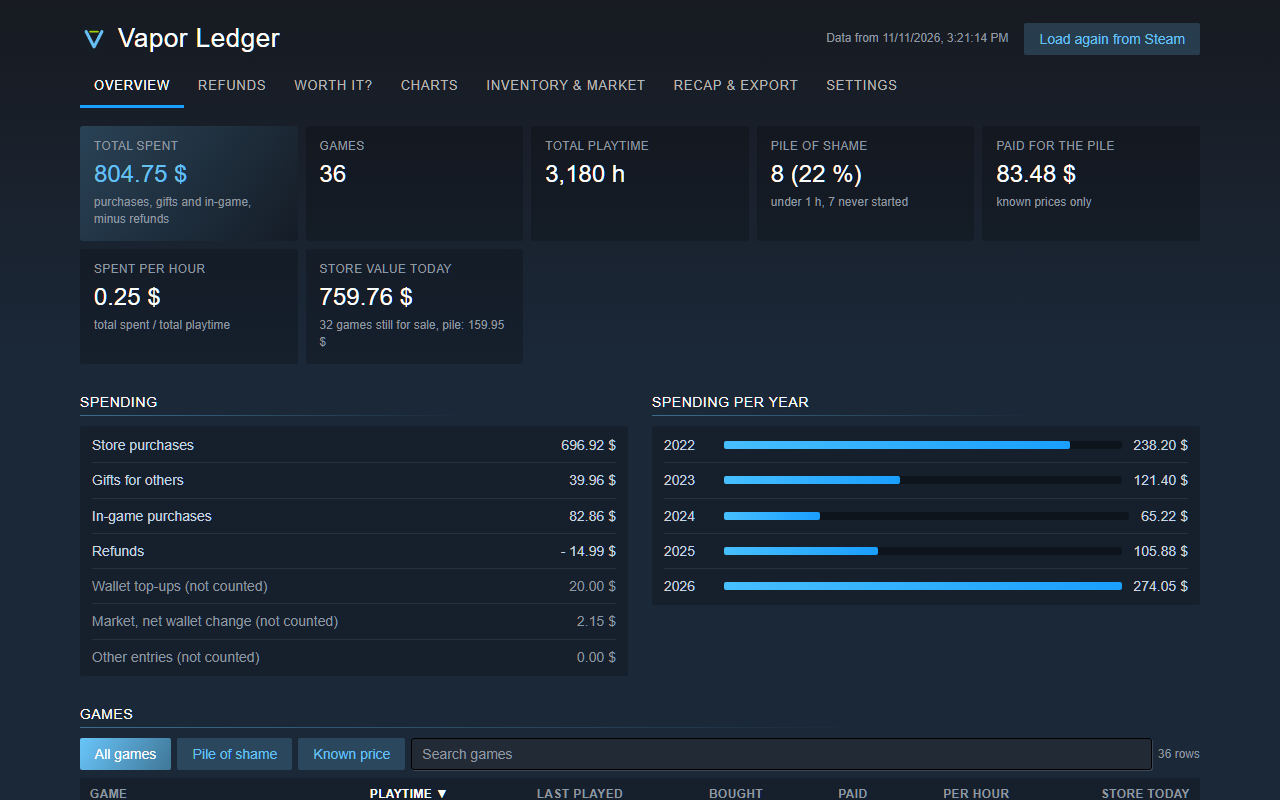
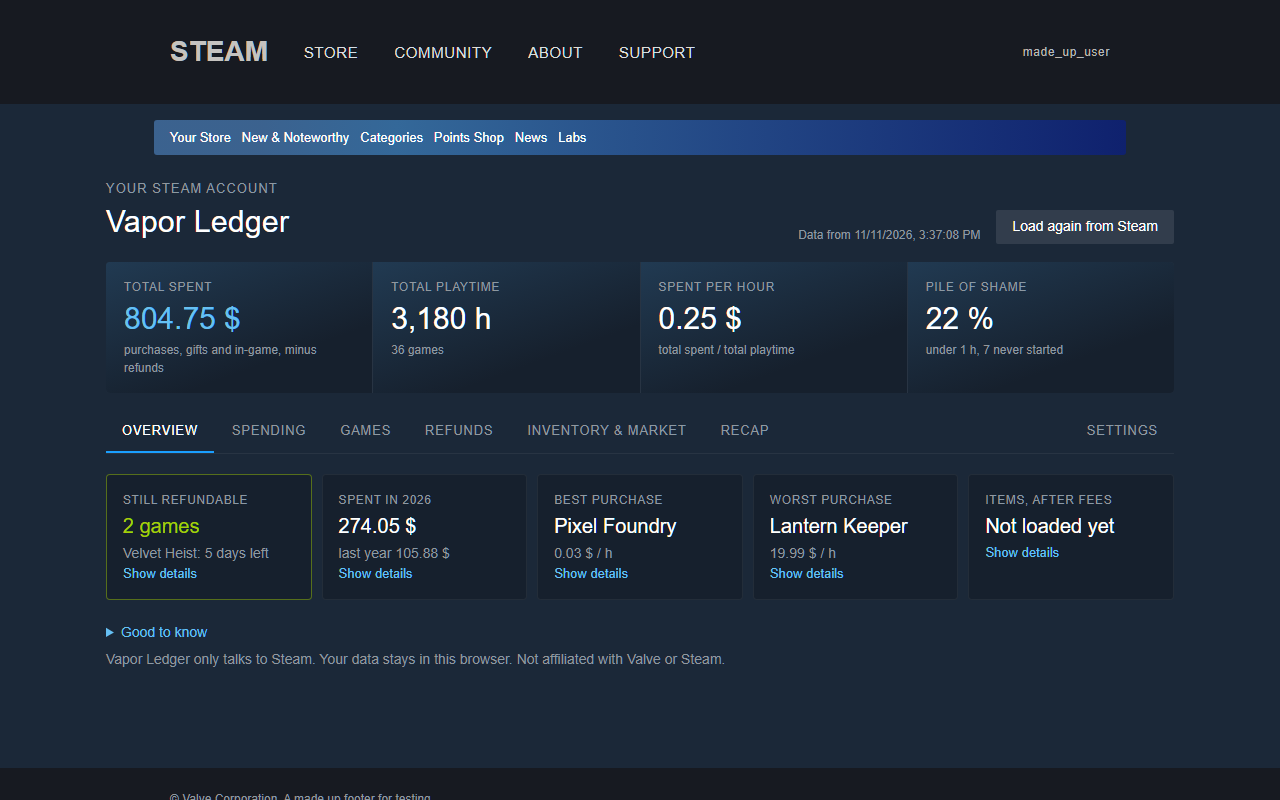
Describe 0.4.0
- Project notes: outside price services only through official APIs, off by
  default, only app ids, keys never in the repo, SteamDB only linked;
  all requests through VL.request; rules for changes to Steam's pages;
  new code layout.
- README: the page inside the store, the new tabs, optional price
  sources, how the market loads, new files.
- CHANGELOG: 0.4.0.
- PRIVACY.md: IsThereAnyDeal (what is sent, only when switched on),
  SteamDB links, the account menu entry, the new host permission.
- store/: listing and review answers for the page inside the store, the
  background script and the IsThereAnyDeal host; new screenshots of the
  page inside a made up copy of Steam's account page.

diff --git a/README.md b/README.md
@@ -6,47 +6,61 @@ your pile of shame is, what your inventory is worth and whether the market
 made you money.
 
 No ads, no tracking, no accounts, no servers. Everything happens in your
-browser and the only site the extension talks to is Steam itself.
+browser. The extension talks to Steam, and to IsThereAnyDeal only if you
+switch that on.
 
 > Vapor Ledger is a hobby project and not affiliated with Valve or Steam.
 
-## Features (v0.3)
+## Features (v0.4)
 
-Vapor Ledger opens as its own page in the browser. Click the toolbar
-button or the "Vapor Ledger" link in Steam's header.
+Vapor Ledger is a page inside the Steam store, with Steam's own header,
+navigation and footer: [store.steampowered.com/account/#vapor-ledger](https://store.steampowered.com/account/#vapor-ledger).
+Open it from your account menu (under your name at the top of Steam) or
+with the toolbar button.
 
-- **Overview**: total spent (store purchases, gifts and in-game purchases
-  minus refunds), spending per year, playtime, pile of shame, cost per
-  hour, what your library would cost in the store today, sortable and
-  searchable games table
-- **Refund watch**: games bought in the last 14 days with less than
-  2 hours played, with the days and minutes left and a link to Steam's
-  help page for that purchase. Steam decides every request, Vapor Ledger
-  never asks for a refund by itself
-- **Worth it?**: best and worst purchases by cost per hour, and what
-  discounts saved compared with today's regular price
-- **Charts**: spending per month and year, spending added up over time,
-  playtime ranges, price against playtime. Plain SVG in Steam's colors,
-  readable with the keyboard and as a table
+At the top are the key numbers: total spent, playtime, spent per hour and
+pile of shame. Below are tabs, each with the details behind "Show more":
+
+- **Overview**: what needs attention, like games you can still refund,
+  this year's spending, your best and worst purchase
+- **Spending**: store purchases, gifts, in-game purchases and refunds,
+  spending per year and month, added up over time, other currencies shown
+  apart, what discounts saved compared with today's regular price
+- **Games**: best and worst purchases by cost per hour, sortable and
+  searchable games table, playtime charts
+- **Refundable**: games bought in the last 14 days with less than 2 hours
+  played, with the days and minutes left and a link to Steam's help page.
+  Steam decides every request, Vapor Ledger never asks for a refund itself
 - **Inventory and market**: inventory value for Steam items,
   Counter-Strike 2, Team Fortress 2, Dota 2, Rust and PUBG, what you would
   get after fees, market history with profit and loss, and what Steam
   really cost you
-- **Recap image** for the whole account or one year. No Steam ID or name,
-  game names only if you want them
-- **Export** of purchases and games as CSV and of everything as JSON
-- English and German, following the browser language
-- Purchase history in every Steam store language. Different currencies are
-  shown apart and never added up
-- Local cache, so the page opens instantly next time
-- In Steam's own look: same colors, fonts and buttons as Steam
+- **Recap**: an image for the whole account or one year (no Steam ID or
+  name, game names only if you want them), export as CSV and JSON
+- **Settings**: switch each part off, optional price sources
 
+Charts are plain SVG, readable with the keyboard and as a table. Purchase
+history works in every Steam store language, different currencies are
+never added up. Interface in English and German.
+
+### Optional price sources
+
+Off until you switch them on in the settings:
+
+- **IsThereAnyDeal**: the lowest price each game ever had, through
+  IsThereAnyDeal's official API. You need your own free API key from
+  IsThereAnyDeal; enter it in the settings, it stays in your browser. Only
+  Steam app ids and your store country are sent.
+- **SteamDB**: only links next to each game. SteamDB has no public API, so
+  nothing is loaded from it.
 ### Better Steam pages
 
 Vapor Ledger also makes some of Steam's own pages easier to use. It only
 changes how they look and work in your browser, saving still goes through
 Steam's own buttons and forms. Every part can be switched off on the
-"Settings" tab, and if Steam changes a page, the original page stays.
+"Settings" tab, and if Steam changes a page, the original page stays. The
+additions use their own `vl-` classes and a shadow root, so they work next to
+Augmented Steam, the SteamDB extension, Steam Inventory Helper and CSFloat.
 
 - **Profile edit**: Steam's Save bar stays in view while you scroll and
   shows when there are unsaved changes, Ctrl+S saves with Steam's own
@@ -81,25 +95,28 @@ To try it:
 2. Click "Load Temporary Add-on" and select `manifest.json`
 
 Log in on [store.steampowered.com](https://store.steampowered.com) in the
-same browser, then click the Vapor Ledger button in the toolbar. For
-inventory and market you also need to be logged in on
+same browser, then choose "Vapor Ledger" in your account menu or click the
+toolbar button. For inventory and market you also need to be logged in on
 [steamcommunity.com](https://steamcommunity.com).
 
 ## Where the data comes from
 
 | Data | Source |
 |---|---|
-| Who is logged in, the Web API token | the HTML of store.steampowered.com/account/history, the same values Steam puts on every store page for logged in users |
+| Who is logged in, the Web API token | the store page itself and store.steampowered.com/account/history, the same values Steam puts on every store page for logged in users |
 | Games and playtime | `IPlayerService/GetOwnedGames` on api.steampowered.com, with that token |
 | Purchase history | store.steampowered.com/account/history, the same page you see in your account |
 | Store prices | `IStoreBrowseService/GetItems` on api.steampowered.com, the API the store uses for its game tiles. Only app ids and your store country are sent, no token |
 | Inventory | steamcommunity.com/inventory, the same data your inventory page loads |
-| Market prices | steamcommunity.com/market/priceoverview, the price box on every market page |
-| Market history | steamcommunity.com/market/myhistory, the "My market history" tab |
+| Market prices | steamcommunity.com/market/search/render for all community items of one game at once, steamcommunity.com/market/priceoverview for other items |
+| Market history | steamcommunity.com/market/myhistory, the "My market history" tab, 500 rows per request |
+| Lowest prices (optional) | api.isthereanydeal.com, only if switched on, with your own key |
 
 Steam limits how fast these pages may be asked. Vapor Ledger loads one thing
-at a time with a pause in between (market prices: one every 3.5 seconds), keeps
-prices for a day and stops as soon as Steam says "too many requests".
+at a time with a pause in between (market prices: one request every 3.5
+seconds), asks for all cards, backgrounds and emoticons of a game in one
+request, keeps prices for a day and stops as soon as Steam says "too many
+requests". Saved data shows at once, the rest fills in while it loads.
 
 The token and your data are never sent anywhere except back to Steam. The
 loaded data is kept in the extension's local storage on your computer. You can
@@ -117,8 +134,11 @@ and without any libraries. Details in the [privacy policy](PRIVACY.md).
   shows the playtime of the games bought that year, up to today.
 - Entries the parser doesn't recognize are listed under "Good to know",
   so they can be reported.
-- The first price check of a big inventory takes a while (about 17 items per
-  minute). You can stop it and continue later, prices already loaded are kept.
+- The first price check of a big inventory takes a while: Steam community
+  items go fast (one request per game), other items about 17 per minute. You
+  can stop it and continue later, prices already loaded are kept.
+- The IsThereAnyDeal low is in the currency IsThereAnyDeal uses for your
+  country, it is shown as it is and not compared with what you paid.
 - Market profit or loss is sold minus bought. Items you bought and still own
   count as a cost until you sell them.
 
@@ -126,20 +146,25 @@ and without any libraries. Details in the [privacy policy](PRIVACY.md).
 
 The extension has no build step. Edit the files and reload the extension.
 
-- `src/lib/` data loading, parsing and statistics
-- `src/app/` the extension page: tabs, tables, charts, recap image
-- `src/content/link.js` the "Vapor Ledger" link in Steam's header, the only
-  script that runs on every Steam page
+- `src/lib/` data loading, parsing, statistics, settings and
+  `request.js`, the one place that talks to servers
+- `src/ledger/` the Vapor Ledger page inside the store: tabs, tables, charts,
+  recap image, styles (in a shadow root)
+- `src/content/link.js` the account menu entry, the only script that runs on
+  every Steam page
 - `src/content/profile-edit.js`, `history-tools.js`, `licenses-tools.js` the
   improvements of Steam's own pages, only loaded on those pages, with
   `common.js` and `steam-tools.css`
-- `src/lib/settings.js` which improvements are switched on
-- `src/background.js` opens the page from the toolbar button and the link
+- `src/background.js` the toolbar button, and passes requests of the page
+  to api.steampowered.com, steamcommunity.com and IsThereAnyDeal
 - `_locales/` English and German texts
 - `test/*.test.js` tests for parsers, statistics, pages, manifest and package
-- `test/fixtures/` made up copies of Steam's purchase history in several
-  languages and currencies
-- `test/harness.html` the extension page with made up data instead of Steam.
+- `test/fixtures/` made up copies of Steam's pages (purchase history in
+  several languages and currencies, licenses, profile edit)
+- `test/market-speed.test.js` counts requests and waiting time of the market
+  tab for a typical made up inventory
+- `test/harness.html` a copy of Steam's account page with the Vapor Ledger
+  page and made up data instead of Steam.
   Open it through any local web server from the repository root (for example
   `npx serve .`), add `?lang=de` for German
 
@@ -153,9 +178,8 @@ npm run lint
 npm run pack   # builds dist/vapor-ledger-<version>.zip for the stores
 ```
 
-The ZIP contains only the manifest, the license, `_locales/`, `src/` and the PNG
-icons. The
-same file is uploaded to the Chrome Web Store and to Firefox Add-ons. Store
+The ZIP contains only the manifest, the license, `_locales/`, `src/` and the
+PNG icons. The same file is uploaded to the Chrome Web Store and to Firefox Add-ons. Store
 texts, review answers and screenshots are in `store/`.
 
 ## License

diff --git a/PRIVACY.md b/PRIVACY.md
@@ -1,6 +1,6 @@
 # Privacy Policy for Vapor Ledger
 
-Last updated: November 11, 2026
+Last updated: November 11, 2026 (version 0.4.0)
 
 Vapor Ledger is a free browser extension that shows statistics about your own
 Steam account. It is made by an individual developer (ItsReepze) and is not
@@ -9,7 +9,8 @@ affiliated with Valve or Steam.
 ## Short version
 
 - Vapor Ledger does not collect, sell or share any data.
-- There is no Vapor Ledger server. The extension only talks to Steam.
+- There is no Vapor Ledger server. The extension talks to Steam, and to
+  IsThereAnyDeal only if you switch that on (see below).
 - Everything it loads is stored in your browser and nowhere else.
 - No analytics, no tracking, no ads, no third party services.
 
@@ -54,6 +55,19 @@ image, you decide where.
 The export buttons save your purchase history and games as CSV or JSON files
 on your computer. They contain no Steam ID and no token.
 
+## Optional price sources
+
+Both are off until you switch them on in the settings.
+
+- IsThereAnyDeal (api.isthereanydeal.com): with your own API key, Vapor
+  Ledger asks for the lowest price each of your games ever had. Sent are
+  only the Steam app ids of your games, your store country and your key.
+  Never your Steam ID, your Steam token, your name or anything from your
+  purchase history. IsThereAnyDeal's own privacy policy applies to these
+  requests. The key is kept in your browser's extension storage.
+- SteamDB: only links. Nothing is loaded from SteamDB and nothing is sent
+  to it unless you click a link.
+
 ## Refunds
 
 The refund page only shows which purchases may still be refundable and links
@@ -64,7 +78,7 @@ to Steam's own help page. Vapor Ledger never sends a refund request.
 - It never buys, sells, lists, trades or refunds anything on your behalf.
 - It never changes your Steam account or settings.
 - It never reads pages other than Steam's. On Steam's pages it adds the
-  "Vapor Ledger" link to the header and, on the profile edit, purchase
+  "Vapor Ledger" entry to the account menu and, on the profile edit, purchase
   history and licenses pages, search fields and other helpers. These only
   work inside the page you have open: they load nothing, send nothing and
   save through Steam's own buttons only when you click them (or press
@@ -84,9 +98,10 @@ browser's extension settings.
 | Permission | Why |
 |---|---|
 | `storage` | to keep the loaded data and your settings in your browser, so the page opens instantly |
-| store.steampowered.com | to read your purchase history and who is logged in, and to add the "Vapor Ledger" link to the header |
+| store.steampowered.com | to read your purchase history and who is logged in, to show the Vapor Ledger page on your account page, and to add the "Vapor Ledger" entry to the account menu |
 | api.steampowered.com | to read your games, playtime and current store prices from Steam's official API |
-| steamcommunity.com | to read your inventory, market prices and market history, and to add the "Vapor Ledger" link to the header |
+| steamcommunity.com | to read your inventory, market prices and market history, and to add the "Vapor Ledger" entry to the account menu |
+| api.isthereanydeal.com | only if you switch on IsThereAnyDeal: to ask for the lowest prices of your games |
 
 ## Children
 

diff --git a/store/review-answers.md b/store/review-answers.md
@@ -5,8 +5,8 @@
 ### Single purpose
 
 Vapor Ledger shows statistics about the user's own Steam account (spending,
-playtime, refund deadlines, inventory value and market history) on its own
-extension page.
+playtime, refund deadlines, inventory value and market history) on a page inside
+the Steam store (store.steampowered.com/account/#vapor-ledger).
 
 ### Permission justifications
 
@@ -16,11 +16,11 @@ in the browser's local extension storage, so the page opens instantly next
 time and market prices are not requested from Steam again within a day.
 
 **Host permission: https://store.steampowered.com/\***
-The extension page loads the purchase history from
+The Vapor Ledger page loads the purchase history from
 store.steampowered.com/account/history with the user's existing login and
 reads the logged in user's Steam ID and Web API token from that page. A small
-content script adds a "Vapor Ledger" link to the store header that opens the
-extension page.
+content script adds a "Vapor Ledger" entry to the account menu that opens the
+Vapor Ledger page.
 
 **Host permission: https://api.steampowered.com/\***
 Reads the user's owned games and playtime (IPlayerService/GetOwnedGames) and
@@ -28,12 +28,12 @@ the current store prices of those games (IStoreBrowseService/GetItems) from
 Steam's official Web API.
 
 **Host permission: https://steamcommunity.com/\***
-When the user clicks "Load inventory and market", the extension page loads the
+When the user clicks "Load inventory and market", the Vapor Ledger page loads the
 inventory (steamcommunity.com/inventory), market prices
 (steamcommunity.com/market/priceoverview) and market history
 (steamcommunity.com/market/myhistory) with the user's existing login. The
-same content script as on the store adds the "Vapor Ledger" link to the
-header.
+same content script as on the store adds the "Vapor Ledger" entry to the
+account menu.
 
 **Content scripts on single Steam pages**
 On the profile edit pages (steamcommunity.com/id/*/edit,
@@ -42,6 +42,19 @@ content scripts make Steam's own page easier to use: search fields, filters,
 a Save bar that stays in view, character counters. They load nothing, send
 nothing and only click Steam's own buttons when the user asks for it. Each
 one can be switched off in the extension's settings.
+
+**Host permission: https://api.isthereanydeal.com/\***
+Optional and off by default. If the user switches on "Lowest prices from
+IsThereAnyDeal" and enters their own API key, the extension asks
+IsThereAnyDeal's official API for the lowest price of the user's games.
+Only Steam app ids, the store country and the user's key are sent.
+
+**Background script**
+Opens the Vapor Ledger page from the toolbar button. The Vapor Ledger page
+runs on store.steampowered.com, so it passes its requests to
+api.steampowered.com, steamcommunity.com and (if switched on)
+api.isthereanydeal.com to the background script, which only accepts these
+hosts.
 
 **Remote code**
 No. All JavaScript is included in the package. No eval, no remote scripts.

diff --git a/store/listing.md b/store/listing.md
@@ -26,10 +26,10 @@ Vapor Ledger for Steam
 `store/screenshots/`, 1280x800, made from `test/harness.html` with made up
 data:
 
-1. `1-overview.png` overview with totals and games table
-2. `2-refunds.png` refund watch (German interface)
-3. `3-charts.png` charts
-4. `4-worth.png` best and worst purchases
+1. `1-overview.png` the page inside the Steam store: key numbers and overview
+2. `2-refunds.png` still refundable games (German interface)
+3. `3-spending.png` spending per year and month
+4. `4-games.png` best and worst purchases and the games table
 5. `5-recap.png` recap image and export
 
 ---
@@ -77,12 +77,12 @@ Works in every Steam store language. Purchases in different currencies are shown
 
 Private by design
 - No ads, no tracking, no account, no server of our own.
-- The only site the extension talks to is Steam. Your data stays in your browser.
+- The extension talks to Steam. Optional, only if you switch it on: lowest prices from IsThereAnyDeal with your own key (only app ids are sent). Your data stays in your browser.
 - Nothing is ever bought, sold, traded or refunded for you.
 - Free and open source: https://github.com/ItsReepze/vapor-ledger
 
 How to use
-Log in on store.steampowered.com, then click the Vapor Ledger button in the toolbar or the "Vapor Ledger" link in Steam's header.
+Log in on store.steampowered.com, then choose "Vapor Ledger" in your account menu or click the toolbar button. Vapor Ledger opens as a page inside the Steam store.
 
 Steam limits how fast its pages may be asked, so the first price check of a big inventory takes a few minutes. Prices are kept for a day.
 
@@ -133,12 +133,12 @@ Funktioniert in jeder Steam-Sprache. Käufe in verschiedenen Währungen werden g
 
 Datenschutz von Anfang an
 - Keine Werbung, kein Tracking, kein Konto, kein eigener Server.
-- Die Erweiterung spricht nur mit Steam. Deine Daten bleiben in deinem Browser.
+- Die Erweiterung spricht mit Steam. Optional, nur wenn du es einschaltest: Tiefstpreise von IsThereAnyDeal mit deinem eigenen Schlüssel (gesendet werden nur App-IDs). Deine Daten bleiben in deinem Browser.
 - Es wird nie etwas für dich gekauft, verkauft, gehandelt oder erstattet.
 - Kostenlos und Open Source: https://github.com/ItsReepze/vapor-ledger
 
 So geht's
-Logge dich auf store.steampowered.com ein und klicke dann auf das Vapor-Ledger-Symbol in der Symbolleiste oder auf "Vapor Ledger" oben in der Kopfzeile von Steam.
+Logge dich auf store.steampowered.com ein und wähle dann "Vapor Ledger" in deinem Kontomenü oder klicke auf das Symbol in der Symbolleiste. Vapor Ledger öffnet sich als Seite im Steam-Store.
 
 Steam begrenzt, wie schnell seine Seiten abgefragt werden dürfen. Die erste Preisabfrage eines großen Inventars dauert deshalb ein paar Minuten. Preise werden einen Tag gespeichert.
 

diff --git a/CHANGELOG.md b/CHANGELOG.md
@@ -1,5 +1,28 @@
 # Changelog
 
+## 0.4.0 (2026-11-11)
+
+- Vapor Ledger is now a page inside the Steam store
+  (store.steampowered.com/account/#vapor-ledger) with Steam's header,
+  navigation and footer, opened from the account menu or the toolbar
+  button. The separate extension page is gone
+- New layout: the key numbers on top, then tabs Overview, Spending, Games,
+  Refundable, Inventory and market, Recap and Settings, details behind
+  "Show more"
+- Current Steam look for the page and for the improved Steam pages
+- Inventory and market load much faster: cards, backgrounds and emoticons
+  of a game in one request, market history in pages of 500, saved data
+  shows at once, only missing or old prices are asked again. For a
+  typical inventory 85 instead of 260 price requests
+- Optional price sources: lowest price ever from IsThereAnyDeal (own API
+  key, off by default) and links to SteamDB
+- All requests go through one place; requests to other hosts than the
+  store are passed on by the background script
+- Works next to Augmented Steam, the SteamDB extension, Steam Inventory
+  Helper and CSFloat: own vl- classes, shadow root, watchers limited to
+  Steam's page part
+- New host permission: api.isthereanydeal.com
+
 ## 0.3.0 (2026-11-11)
 
 - Own extension page instead of an overlay on Steam. It opens from the
